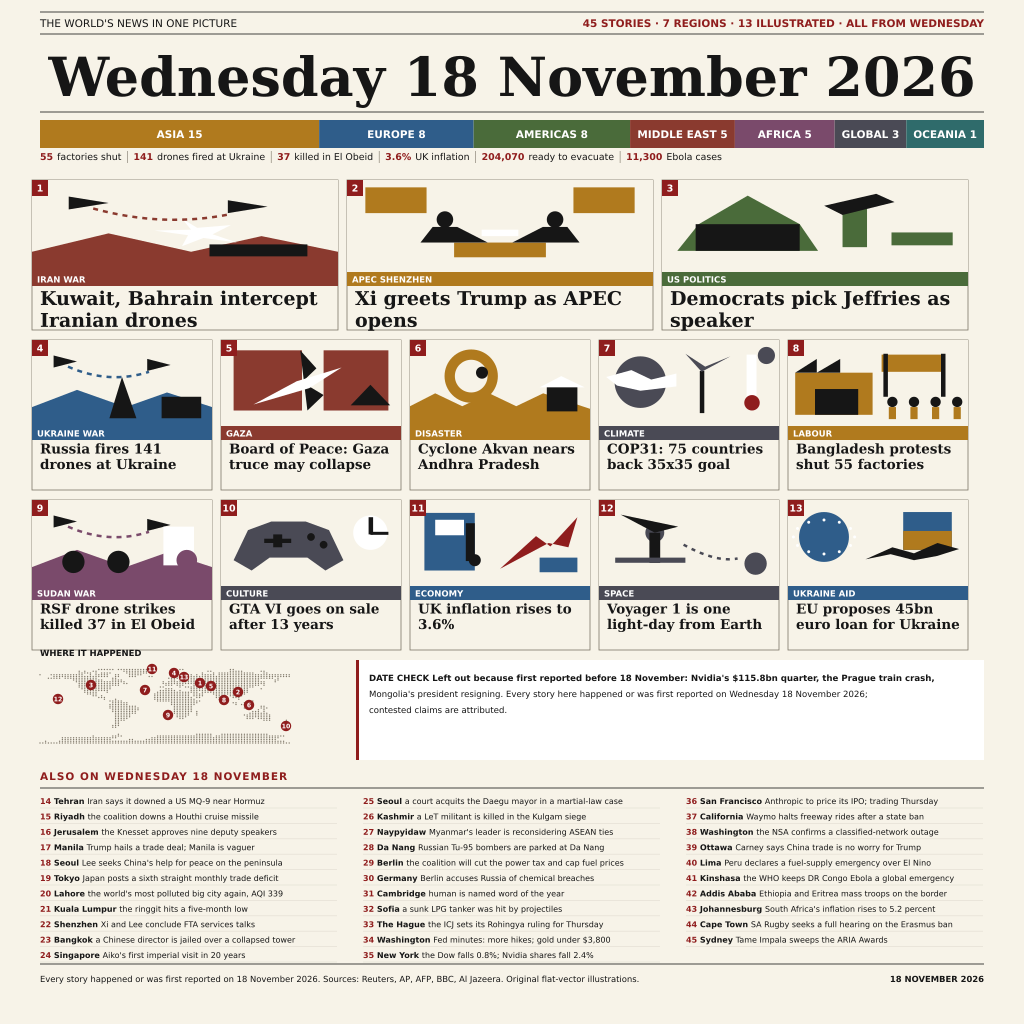
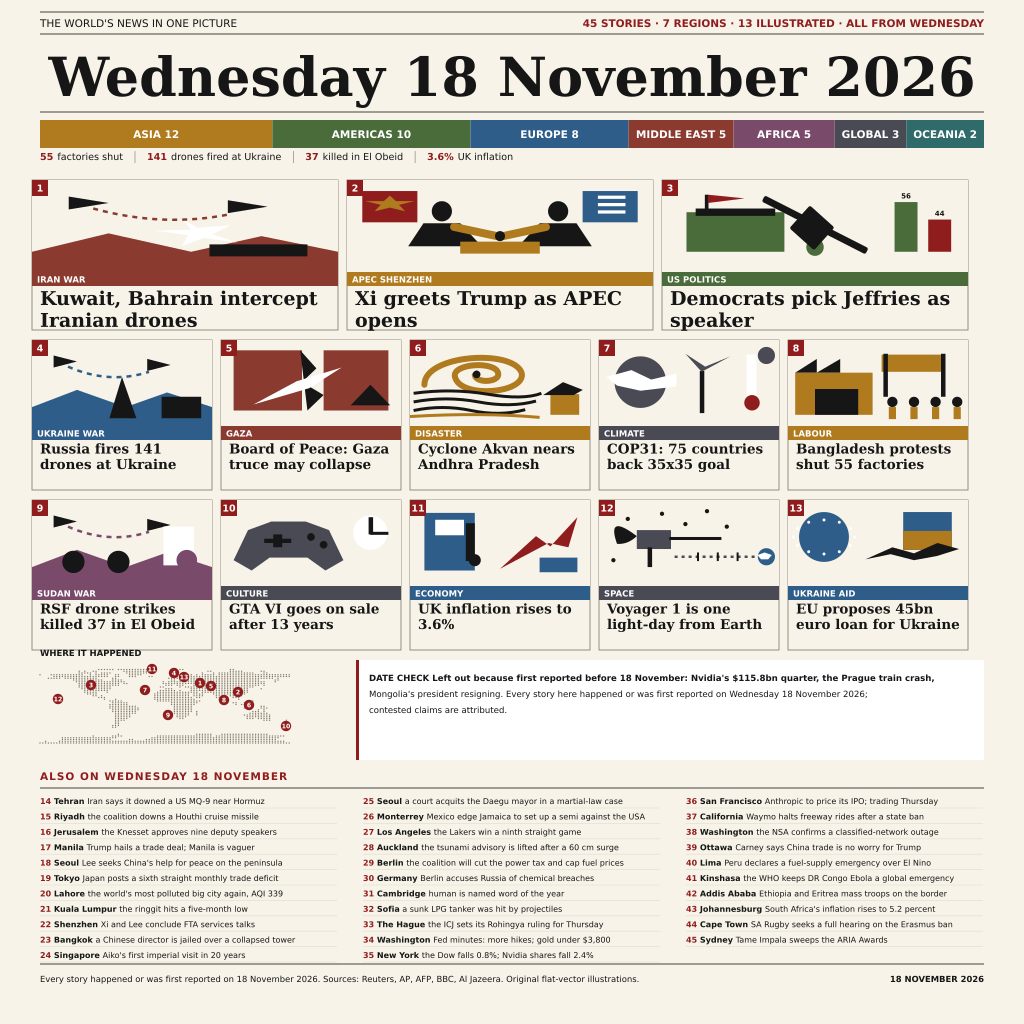
Sharper lead illustrations, quieter ticker, broader region spread

diff --git a/gen.py b/gen.py
@@ -7,7 +7,7 @@ SANS='/usr/share/fonts/truetype/dejavu/DejaVuSans.ttf'; BOLD='/usr/share/fonts/t
 PAPER,INK,RED,GREY,WHITE='#f7f3e8','#161616','#8f1d1d','#7d7668','#ffffff'
 C={'Europe':'#2f5d8a','Middle East':'#8a3a2f','Asia':'#b07a1e','Americas':'#4a6b3a','Africa':'#7a4a6b','Oceania':'#2f6b6b','Global':'#4a4a55'}
 CARDS=[('Middle East','IRAN WAR','Kuwait, Bahrain intercept Iranian drones'),('Asia','APEC SHENZHEN','Xi greets Trump as APEC opens'),('Americas','US POLITICS','Democrats pick Jeffries as speaker'),('Europe','UKRAINE WAR','Russia fires 141 drones at Ukraine'),('Middle East','GAZA','Board of Peace: Gaza truce may collapse'),('Asia','DISASTER','Cyclone Akvan nears Andhra Pradesh'),('Global','CLIMATE','COP31: 75 countries back 35x35 goal'),('Asia','LABOUR','Bangladesh protests shut 55 factories'),('Africa','SUDAN WAR','RSF drone strikes killed 37 in El Obeid'),('Global','CULTURE','GTA VI goes on sale after 13 years'),('Europe','ECONOMY','UK inflation rises to 3.6%'),('Global','SPACE','Voyager 1 is one light-day from Earth'),('Europe','UKRAINE AID','EU proposes 45bn euro loan for Ukraine')]
-BRIEFS=[('Middle East','Tehran','Iran says it downed a US MQ-9 near Hormuz'),('Middle East','Riyadh','the coalition downs a Houthi cruise missile'),('Middle East','Jerusalem','the Knesset approves nine deputy speakers'),('Asia','Manila','Trump hails a trade deal; Manila is vaguer'),('Asia','Seoul',"Lee seeks China's help for peace on the peninsula"),('Asia','Tokyo','Japan posts a sixth straight monthly trade deficit'),('Asia','Lahore',"the world's most polluted big city again, AQI 339"),('Asia','Kuala Lumpur','the ringgit hits a five-month low'),('Asia','Shenzhen','Xi and Lee conclude FTA services talks'),('Asia','Bangkok','a Chinese director is jailed over a collapsed tower'),('Asia','Singapore',"Aiko's first imperial visit in 20 years"),('Asia','Seoul','a court acquits the Daegu mayor in a martial-law case'),('Asia','Kashmir','a LeT militant is killed in the Kulgam siege'),('Asia','Naypyidaw',"Myanmar's leader is reconsidering ASEAN ties"),('Asia','Da Nang','Russian Tu-95 bombers are parked at Da Nang'),('Europe','Berlin','the coalition will cut the power tax and cap fuel prices'),('Europe','Germany','Berlin accuses Russia of chemical breaches'),('Europe','Cambridge','human is named word of the year'),('Europe','Sofia','a sunk LPG tanker was hit by projectiles'),('Europe','The Hague','the ICJ sets its Rohingya ruling for Thursday'),('Americas','Washington','Fed minutes: more hikes; gold under $3,800'),('Americas','New York','the Dow falls 0.8%; Nvidia shares fall 2.4%'),('Americas','San Francisco','Anthropic to price its IPO; trading Thursday'),('Americas','California','Waymo halts freeway rides after a state ban'),('Americas','Washington','the NSA confirms a classified-network outage'),('Americas','Ottawa','Carney says China trade is no worry for Trump'),('Americas','Lima','Peru declares a fuel-supply emergency over El Nino'),('Africa','Kinshasa','the WHO keeps DR Congo Ebola a global emergency'),('Africa','Addis Ababa','Ethiopia and Eritrea mass troops on the border'),('Africa','Johannesburg',"South Africa's inflation rises to 5.2 percent"),('Africa','Cape Town','SA Rugby seeks a full hearing on the Erasmus ban'),('Oceania','Sydney','Tame Impala sweeps the ARIA Awards')]
+BRIEFS=[('Middle East','Tehran','Iran says it downed a US MQ-9 near Hormuz'),('Middle East','Riyadh','the coalition downs a Houthi cruise missile'),('Middle East','Jerusalem','the Knesset approves nine deputy speakers'),('Asia','Manila','Trump hails a trade deal; Manila is vaguer'),('Asia','Seoul',"Lee seeks China's help for peace on the peninsula"),('Asia','Tokyo','Japan posts a sixth straight monthly trade deficit'),('Asia','Lahore',"the world's most polluted big city again, AQI 339"),('Asia','Kuala Lumpur','the ringgit hits a five-month low'),('Asia','Shenzhen','Xi and Lee conclude FTA services talks'),('Asia','Bangkok','a Chinese director is jailed over a collapsed tower'),('Asia','Singapore',"Aiko's first imperial visit in 20 years"),('Asia','Seoul','a court acquits the Daegu mayor in a martial-law case'),('Americas','Monterrey','Mexico edge Jamaica to set up a semi against the USA'),('Americas','Los Angeles','the Lakers win a ninth straight game'),('Oceania','Auckland','the tsunami advisory is lifted after a 60 cm surge'),('Europe','Berlin','the coalition will cut the power tax and cap fuel prices'),('Europe','Germany','Berlin accuses Russia of chemical breaches'),('Europe','Cambridge','human is named word of the year'),('Europe','Sofia','a sunk LPG tanker was hit by projectiles'),('Europe','The Hague','the ICJ sets its Rohingya ruling for Thursday'),('Americas','Washington','Fed minutes: more hikes; gold under $3,800'),('Americas','New York','the Dow falls 0.8%; Nvidia shares fall 2.4%'),('Americas','San Francisco','Anthropic to price its IPO; trading Thursday'),('Americas','California','Waymo halts freeway rides after a state ban'),('Americas','Washington','the NSA confirms a classified-network outage'),('Americas','Ottawa','Carney says China trade is no worry for Trump'),('Americas','Lima','Peru declares a fuel-supply emergency over El Nino'),('Africa','Kinshasa','the WHO keeps DR Congo Ebola a global emergency'),('Africa','Addis Ababa','Ethiopia and Eritrea mass troops on the border'),('Africa','Johannesburg',"South Africa's inflation rises to 5.2 percent"),('Africa','Cape Town','SA Rugby seeks a full hearing on the Erasmus ban'),('Oceania','Sydney','Tame Impala sweeps the ARIA Awards')]
 LEDGER=[]
 def measure(s,p,z): return ImageFont.truetype(p,round(z*64)).getlength(str(s))/64
 def T(s,x,y,z,p=SANS,fill=INK,anchor='',box=None,extra=''):
@@ -36,15 +36,28 @@ def scene(n,x,y,w,h,c):
   elif n==4:z+=P(f'{X(43)},{Y(91)} {X(50)},{Y(43)} {X(58)},{Y(91)}',INK)+R(X(72),Y(66),w*.22,h*.25,INK)
   else:z+=O(X(23),Y(72),h*.13,INK)+O(X(48),Y(72),h*.13,INK)+R(X(73),Y(31),w*.17,h*.45,WHITE)+O(X(86),Y(70),h*.12,c)
   z+=f'<path d="M{X(20)} {Y(31)} Q{X(43)} {Y(52)} {X(65)} {Y(37)}" fill="none" stroke="{c}" stroke-width="2.5" stroke-dasharray="5 5"/>'
- elif n==2:z+=R(X(35),Y(68),w*.3,h*.16,c)+R(X(6),Y(8),w*.2,h*.28,c)+R(X(74),Y(8),w*.2,h*.28,c)+O(X(32),Y(43),h*.09,INK)+O(X(68),Y(43),h*.09,INK)+P(f'{X(24)},{Y(68)} {X(28)},{Y(51)} {X(36)},{Y(51)} {X(46)},{Y(68)}',INK)+P(f'{X(54)},{Y(68)} {X(64)},{Y(51)} {X(72)},{Y(51)} {X(76)},{Y(68)}',INK)+R(X(44),Y(54),w*.12,h*.07,WHITE)
- elif n==3:z+=P(f'{X(5)},{Y(77)} {X(12)},{Y(48)} {X(28)},{Y(17)} {X(45)},{Y(48)} {X(51)},{Y(77)}',c)+R(X(11),Y(48),w*.34,h*.29,INK)+R(X(59),Y(25),w*.08,h*.48,c)+P(f'{X(53)},{Y(28)} {X(70)},{Y(15)} {X(76)},{Y(24)} {X(59)},{Y(38)}',INK)+R(X(75),Y(57),w*.2,h*.14,c)
+ elif n==2:
+  z+=R(X(5),Y(12),w*.18,h*.34,RED)+P(f'{X(14)},{Y(17)} {X(16)},{Y(23)} {X(22)},{Y(23)} {X(17)},{Y(27)} {X(19)},{Y(34)} {X(14)},{Y(30)} {X(9)},{Y(34)} {X(11)},{Y(27)} {X(6)},{Y(23)} {X(12)},{Y(23)}',c)
+  z+=R(X(77),Y(12),w*.18,h*.34,'#2f5d8a')+R(X(82),Y(17),w*.09,h*.035,WHITE)+R(X(82),Y(25),w*.09,h*.035,WHITE)+R(X(82),Y(33),w*.09,h*.035,WHITE)
+  z+=O(X(31),Y(34),h*.11,INK)+O(X(69),Y(34),h*.11,INK)+P(f'{X(20)},{Y(72)} {X(25)},{Y(47)} {X(37)},{Y(47)} {X(44)},{Y(72)}',INK)+P(f'{X(56)},{Y(72)} {X(63)},{Y(47)} {X(75)},{Y(47)} {X(80)},{Y(72)}',INK)
+  z+=f'<path d="M{X(35)} {Y(51)}L{X(49)} {Y(61)}M{X(65)} {Y(51)}L{X(51)} {Y(61)}" stroke="{c}" stroke-width="8" stroke-linecap="round"/>'+O(X(50),Y(61),h*.055,INK)+R(X(37),Y(67),w*.26,h*.13,c)
+ elif n==3:
+  z+=R(X(8),Y(35),w*.32,h*.43,c)+R(X(11),Y(31),w*.26,h*.08,INK)+R(X(14),Y(16),w*.012,h*.19,INK)+P(f'{X(15)},{Y(16)} {X(27)},{Y(20)} {X(15)},{Y(25)}',RED)
+  z+=O(X(50),Y(73),h*.095,c)+f'<rect x="{X(31)}" y="{Y(45)}" width="{w*.38}" height="{h*.075}" rx="2" fill="{INK}" transform="rotate(27 {X(50)} {Y(49)})"/><rect x="{X(44)}" y="{Y(34)}" width="{w*.1}" height="{h*.36}" rx="2" fill="{INK}" transform="rotate(-48 {X(49)} {Y(52)})"/>'
+  z+=R(X(76),Y(24),w*.075,h*.54,c)+R(X(87),Y(43),w*.075,h*.35,RED)+T('56',X(79.75),Y(20),7,BOLD,INK,'middle')+T('44',X(90.75),Y(39),7,BOLD,INK,'middle')
  elif n==5:z+=R(X(7),Y(12),w*.38,h*.7,c)+R(X(57),Y(12),w*.36,h*.7,c)+P(f'{X(44)},{Y(12)} {X(53)},{Y(33)} {X(45)},{Y(49)} {X(57)},{Y(64)} {X(48)},{Y(82)}',INK)+P(f'{X(18)},{Y(75)} {X(42)},{Y(48)} {X(67)},{Y(32)} {X(49)},{Y(56)}',WHITE)+P(f'{X(72)},{Y(76)} {X(83)},{Y(52)} {X(94)},{Y(76)}',INK)
- elif n==6:z+=O(X(34),Y(42),h*.31,c)+O(X(34),Y(42),h*.19,PAPER)+O(X(40),Y(38),h*.07,INK)+P(f'{X(0)},{Y(77)} {X(14)},{Y(62)} {X(29)},{Y(77)} {X(44)},{Y(62)} {X(59)},{Y(77)} {X(74)},{Y(62)} {X(100)},{Y(80)} {X(100)},{Y(100)} {X(0)},{Y(100)}',c)+R(X(76),Y(54),w*.17,h*.29,INK)+P(f'{X(72)},{Y(55)} {X(84)},{Y(42)} {X(97)},{Y(55)}',WHITE)
+ elif n==6:
+  z+=f'<path d="M{X(8)} {Y(52)}C{X(8)} {Y(17)} {X(57)} {Y(10)} {X(62)} {Y(38)}C{X(65)} {Y(62)} {X(28)} {Y(69)} {X(25)} {Y(43)}C{X(23)} {Y(27)} {X(48)} {Y(24)} {X(49)} {Y(39)}C{X(50)} {Y(49)} {X(37)} {Y(51)} {X(36)} {Y(41)}" fill="none" stroke="{c}" stroke-width="6" stroke-linecap="round"/>'+O(X(37),Y(40),h*.045,INK)
+  z+=f'<path d="M{X(2)} {Y(62)}Q{X(23)} {Y(56)} {X(43)} {Y(63)}T{X(73)} {Y(62)}M{X(2)} {Y(72)}Q{X(20)} {Y(65)} {X(38)} {Y(72)}T{X(70)} {Y(71)}M{X(2)} {Y(82)}Q{X(18)} {Y(75)} {X(34)} {Y(82)}T{X(64)} {Y(81)}" fill="none" stroke="{INK}" stroke-width="3"/>'
+  z+=f'<path d="M{X(0)} {Y(89)}Q{X(40)} {Y(84)} {X(72)} {Y(90)}" fill="none" stroke="{c}" stroke-width="3"/>'+R(X(78),Y(63),w*.16,h*.24,c)+P(f'{X(74)},{Y(64)} {X(85)},{Y(49)} {X(96)},{Y(58)} {X(91)},{Y(64)}',INK)
  elif n==7:z+=O(X(23),Y(49),h*.3,c)+P(f'{X(4)},{Y(43)} {X(18)},{Y(35)} {X(29)},{Y(46)} {X(43)},{Y(39)} {X(43)},{Y(54)} {X(23)},{Y(59)} {X(10)},{Y(53)}',WHITE)+R(X(56),Y(36),w*.025,h*.49,INK)+P(f'{X(57)},{Y(37)} {X(48)},{Y(16)} {X(59)},{Y(31)} {X(73)},{Y(19)}',c)+R(X(82),Y(17),w*.055,h*.52,WHITE)+O(X(85),Y(73),h*.09,RED)+O(X(93),Y(18),h*.1,c)
  elif n==8:z+=R(X(4),Y(38),w*.43,h*.49,c)+P(f'{X(4)},{Y(38)} {X(16)},{Y(22)} {X(16)},{Y(38)} {X(29)},{Y(22)} {X(29)},{Y(38)}',INK)+R(X(15),Y(57),w*.24,h*.3,INK)+R(X(52),Y(17),w*.35,h*.2,c)+R(X(53),Y(16),w*.025,h*.5,INK)+R(X(85),Y(16),w*.025,h*.5,INK)+''.join(O(X(q),Y(72),h*.06,INK)+R(X(q-2),Y(78),w*.04,h*.14,c) for q in (58,70,82,94))
  elif n==10:z+=P(f'{X(7)},{Y(70)} {X(15)},{Y(35)} {X(28)},{Y(25)} {X(47)},{Y(25)} {X(60)},{Y(35)} {X(68)},{Y(70)} {X(58)},{Y(82)} {X(48)},{Y(67)} {X(27)},{Y(67)} {X(17)},{Y(82)}',c)+R(X(24),Y(45),w*.15,h*.05,INK)+R(X(29),Y(40),w*.05,h*.15,INK)+O(X(50),Y(43),h*.045,INK)+O(X(57),Y(52),h*.045,INK)+O(X(83),Y(38),h*.2,WHITE)+R(X(82),Y(20),w*.025,h*.2,INK)+R(X(83),Y(37),w*.1,h*.035,INK)
  elif n==11:z+=R(X(8),Y(15),w*.28,h*.67,c)+R(X(14),Y(23),w*.16,h*.18,WHITE)+R(X(31),Y(27),w*.05,h*.44,INK)+O(X(36),Y(70),h*.07,INK)+P(f'{X(50)},{Y(80)} {X(70)},{Y(42)} {X(78)},{Y(54)} {X(93)},{Y(20)} {X(88)},{Y(55)} {X(77)},{Y(50)}',RED)+R(X(72),Y(67),w*.21,h*.17,c)
- elif n==12:z+=O(X(31),Y(38),h*.11,c)+P(f'{X(31)},{Y(38)} {X(12)},{Y(17)} {X(44)},{Y(31)}',INK)+R(X(28),Y(38),w*.06,h*.35,INK)+R(X(9),Y(67),w*.39,h*.06,c)+O(X(87),Y(74),h*.13,c)+f'<path d="M{X(47)} {Y(52)} Q{X(65)} {Y(73)} {X(77)} {Y(68)}" fill="none" stroke="{c}" stroke-width="2.5" stroke-dasharray="4 5"/>'
+ elif n==12:
+  z+=R(X(21),Y(35),w*.19,h*.22,c)+f'<path d="M{X(21)} {Y(42)}Q{X(4)} {Y(15)} {X(10)} {Y(51)}Q{X(16)} {Y(52)} {X(21)} {Y(42)}" fill="{INK}"/>'+R(X(39),Y(43),w*.29,h*.035,INK)+R(X(27),Y(55),w*.025,h*.23,INK)
+  z+=''.join(O(X(q),Y(r),h*.025,INK) for q,r in ((8,70),(16,22),(35,16),(48,28),(60,13),(71,31)))
+  z+=f'<path d="M{X(42)} {Y(66)}H{X(88)}" fill="none" stroke="{c}" stroke-width="2.5" stroke-dasharray="3 4"/><path d="M{X(55)} {Y(61)}V{Y(71)}M{X(66)} {Y(61)}V{Y(71)}M{X(77)} {Y(61)}V{Y(71)}" stroke="{INK}" stroke-width="2"/>'+O(X(93),Y(66),h*.1,'#2f5d8a')+P(f'{X(88)},{Y(64)} {X(92)},{Y(61)} {X(96)},{Y(64)} {X(94)},{Y(69)} {X(90)},{Y(69)}',WHITE)
  else:z+=O(X(20),Y(43),h*.29,c)+''.join(O(X(20+17*math.cos(k*math.pi/6)),Y(43)+17*math.sin(k*math.pi/6),1.5,WHITE) for k in range(12))+R(X(64),Y(14),w*.27,h*.44,'#2f5d8a')+R(X(64),Y(36),w*.27,h*.22,'#b07a1e')+P(f'{X(43)},{Y(69)} {X(58)},{Y(55)} {X(70)},{Y(62)} {X(83)},{Y(50)} {X(95)},{Y(57)} {X(83)},{Y(65)} {X(70)},{Y(70)} {X(57)},{Y(63)}',INK)
  return z
 def dotmap():
@@ -76,15 +89,18 @@ def svg():
  widths=tab_widths(order,counts);print('tab widths:', ' '.join(f'{a}={w:.2f}' for a,w in zip(order,widths)))
  for a,w in zip(order,widths):
   o += [R(x,120,w,28,C[a]),T(f'{a.upper()} {counts[a]}',x+w/2,138,10.5,BOLD,WHITE,'middle',w-14)];x+=w
- ticker=[('55','factories shut'),('141','drones fired at Ukraine'),('37','killed in El Obeid'),('3.6%','UK inflation'),('204,070','ready to evacuate'),('11,300','Ebola cases')]
- gap=12; total=sum(measure(a,BOLD,9.4)+4+measure(b,SANS,9.4) for a,b in ticker)+gap*5
+ ticker=[('55','factories shut'),('141','drones fired at Ukraine'),('37','killed in El Obeid'),('3.6%','UK inflation')]
+ assert len(ticker)==4
+ gap=24; total=sum(measure(a,BOLD,9.6)+4+measure(b,SANS,9.6) for a,b in ticker)+gap*(len(ticker)-1)
+ if total>944:ticker=ticker[:-1];total=sum(measure(a,BOLD,9.6)+4+measure(b,SANS,9.6) for a,b in ticker)+gap*(len(ticker)-1)
+ assert len(ticker)==4
  assert total<=944
  tx=40
  for i,(figure,label) in enumerate(ticker):
-  fw=measure(figure,BOLD,9.4);lw=measure(label,SANS,9.4)
-  o += [T(figure,tx,160,9.4,BOLD,RED,box=fw+.1),T(label,tx+fw+4,160,9.4,SANS,INK,box=lw+.1)]
+  fw=measure(figure,BOLD,9.6);lw=measure(label,SANS,9.6)
+  o += [T(figure,tx,160,9.6,BOLD,RED,box=fw+.1),T(label,tx+fw+4,160,9.6,SANS,INK,box=lw+.1)]
   tx+=fw+4+lw
-  if i<5:o.append(f'<path d="M{tx+gap/2} 151V163" stroke="{GREY}" stroke-width=".6"/>');tx+=gap
+  if i<len(ticker)-1:o.append(f'<path d="M{tx+gap/2} 151V163" stroke="{GREY}" stroke-width=".6"/>');tx+=gap
  pos=[(32+i*315,180,306,92) for i in range(3)]+[(32+i*189,340,180,86) for i in range(5)]+[(32+i*189,500,180,86) for i in range(5)]
  for n,((reg,kick,head),(x,y,w,ih)) in enumerate(zip(CARDS,pos),1):
   o += [f'<rect x="{x}" y="{y}" width="{w}" height="150" fill="none" stroke="{GREY}" stroke-width=".8"/>',scene(n,x,y,w,ih,C[reg]),R(x,y+ih,w,14,C[reg]),T(kick,x+5,y+ih+10.5,8.5,BOLD,WHITE,box=w-10)]
